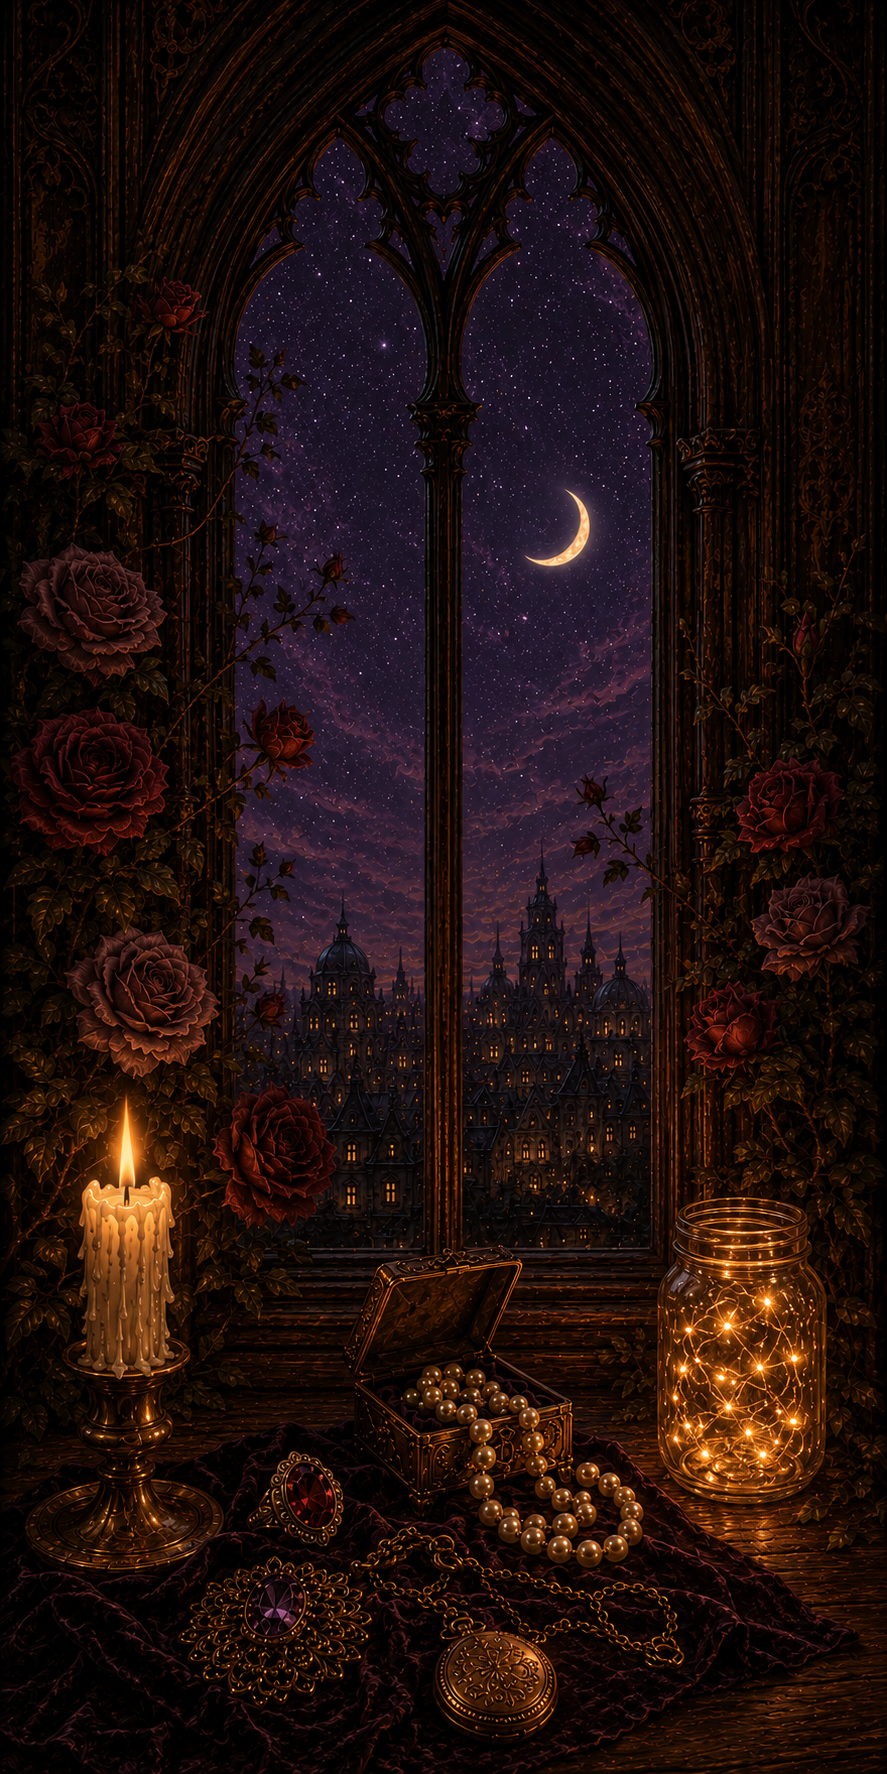
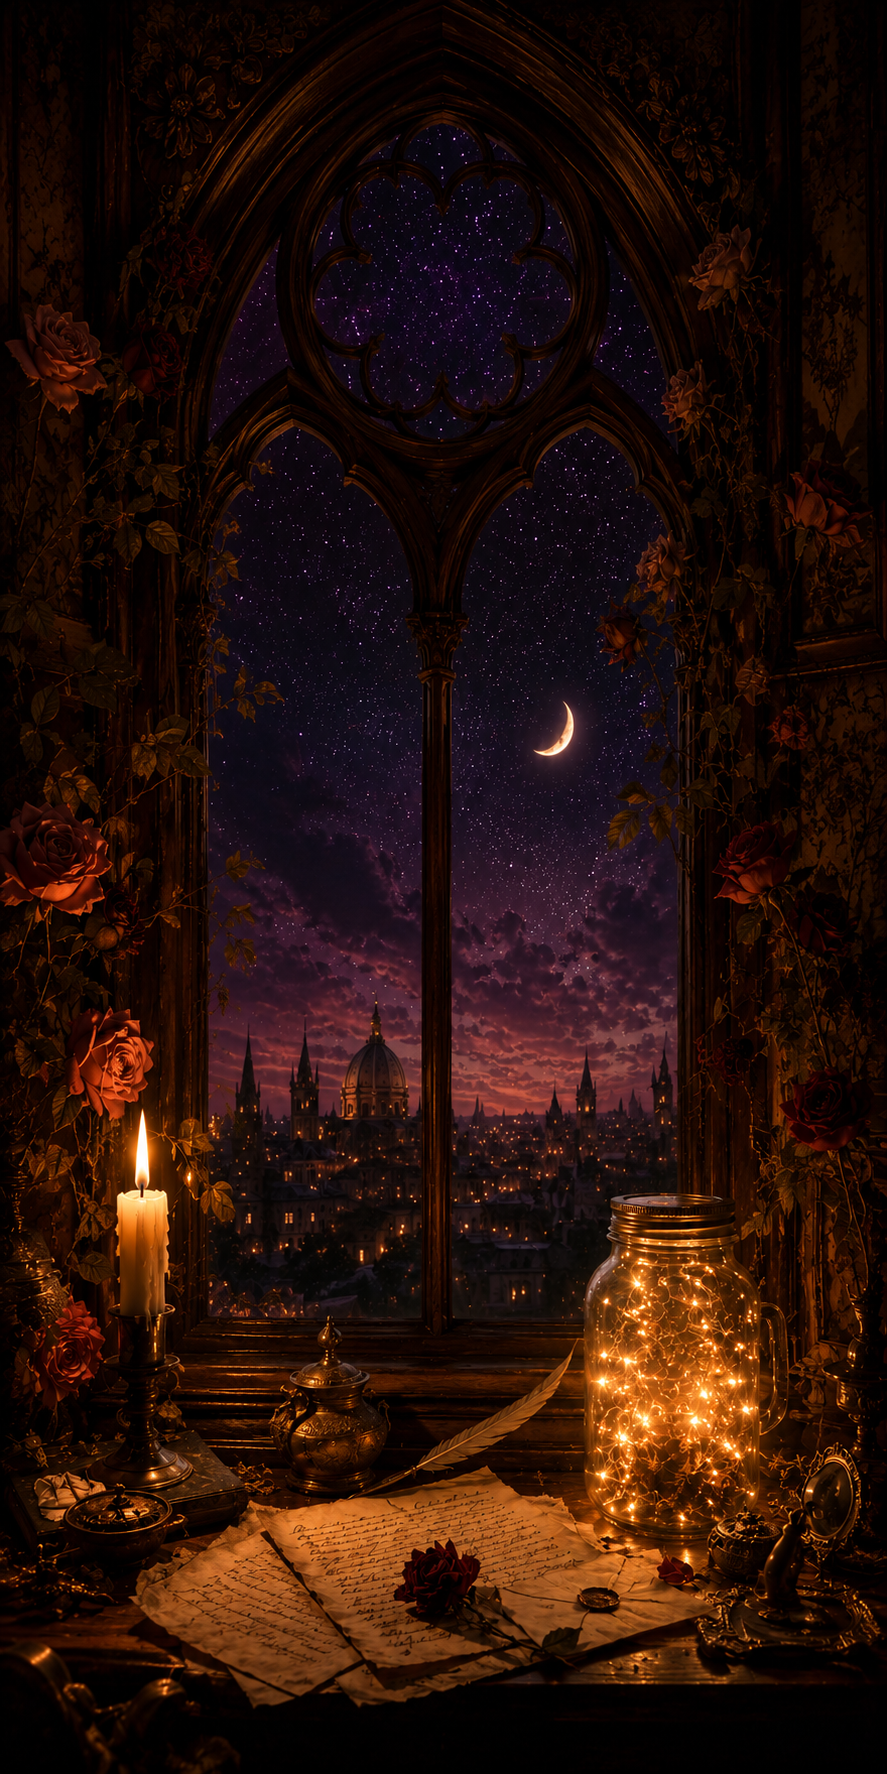
Initial committttttt

diff --git a/src/components/Countdown.tsx b/src/components/Countdown.tsx
@@ -24,13 +24,11 @@ export function Countdown() {
 
   return (
     <div
-      className="relative inline-block overflow-hidden px-8 py-4.5 backdrop-blur-md sm:px-14 sm:py-6"
+      className="relative inline-block overflow-hidden px-7 py-3.5 sm:px-11 sm:py-4.5"
       style={{
         border: "1px solid rgba(184,148,90,0.72)",
-        borderRadius: "34px",
-        backgroundColor: "rgba(22,15,23,0.26)",
-        backgroundImage: "radial-gradient(ellipse at 50% 0%, rgba(184,148,90,0.09), transparent 70%)",
-        boxShadow: "0 0 44px rgba(212,166,90,0.18), 0 10px 34px rgba(0,0,0,0.45), inset 0 0 26px rgba(0,0,0,0.3)",
+        borderRadius: "30px",
+        boxShadow: "0 0 40px rgba(212,166,90,0.16)",
       }}
     >
       {/* a slow light travels the frame every few seconds */}
@@ -63,11 +61,11 @@ export function Countdown() {
       <span className="absolute -left-[5px] top-1/2 -translate-y-1/2 bg-background px-0.5 font-display text-[9px] text-gold">✦</span>
       <span className="absolute -right-[5px] top-1/2 -translate-y-1/2 bg-background px-0.5 font-display text-[9px] text-gold">✦</span>
 
-      <div className="small-caps text-sm tracking-[0.3em] text-cream">
+      <div className="small-caps text-xs tracking-[0.3em] text-cream" style={{ textShadow: "0 1px 6px rgba(0,0,0,0.8)" }}>
         {lead} · {when}
       </div>
 
-      <div className="mt-2.5 flex items-start justify-center gap-2.5 font-display text-parchment sm:gap-3.5">
+      <div className="mt-2 flex items-start justify-center gap-2 font-display text-parchment sm:gap-3" style={{ textShadow: "0 1px 8px rgba(0,0,0,0.85)" }}>
         <Unit v={t.d} l="Days" />
         <Colon />
         <Unit v={t.h} l="Hrs" />
@@ -81,14 +79,14 @@ export function Countdown() {
 }
 
 function Colon() {
-  return <span className="pt-0.5 text-2xl text-gold/70 sm:text-3xl">:</span>;
+  return <span className="pt-0.5 text-xl text-gold/70 sm:text-2xl">:</span>;
 }
 
 function Unit({ v, l }: { v: number; l: string }) {
   return (
-    <span className="flex w-10 flex-col items-center sm:w-12">
-      <span className="text-3xl tabular-nums leading-none sm:text-4xl">{v.toString().padStart(2, "0")}</span>
-      <span className="mt-1.5 small-caps text-[9px] tracking-[0.28em] text-haze">{l}</span>
+    <span className="flex w-8 flex-col items-center sm:w-10">
+      <span className="text-2xl tabular-nums leading-none sm:text-3xl">{v.toString().padStart(2, "0")}</span>
+      <span className="mt-1 small-caps text-[9px] tracking-[0.28em] text-cream/70">{l}</span>
     </span>
   );
 }

diff --git a/src/routes/index.tsx b/src/routes/index.tsx
@@ -154,15 +154,25 @@ function Hero() {
           style={{ background: "linear-gradient(180deg, transparent, rgba(34,23,36,0.5) 55%, #221724)" }}
         />
 
-        {/* the countdown floats at the stage's foot — lifted clear of the
-            bottom nav on mobile so it is always fully visible */}
+        {/* the countdown floats over the desk, fully visible — and beneath it,
+            a candle-flicker chevron whispers "there is more below" */}
         <motion.div
-          className="absolute inset-x-0 bottom-24 z-10 flex justify-center px-6 md:bottom-8"
+          className="absolute inset-x-0 bottom-[7.5rem] z-10 flex flex-col items-center gap-2.5 px-6 md:bottom-10"
           initial={{ opacity: 0, y: 16 }}
           animate={{ opacity: 1, y: 0 }}
           transition={{ duration: 2, delay: 0.8, ease: EASE }}
         >
           <Countdown />
+          <motion.span
+            aria-hidden
+            className="animate-flicker text-candle"
+            animate={{ y: [0, 5, 0] }}
+            transition={{ duration: 2.4, repeat: Infinity, ease: "easeInOut" }}
+          >
+            <svg viewBox="0 0 24 24" className="h-5 w-5" fill="none" stroke="currentColor" strokeWidth="1.3" strokeLinecap="round">
+              <path d="M5 9 l7 7 l7 -7" />
+            </svg>
+          </motion.span>
         </motion.div>
       </motion.div>
 